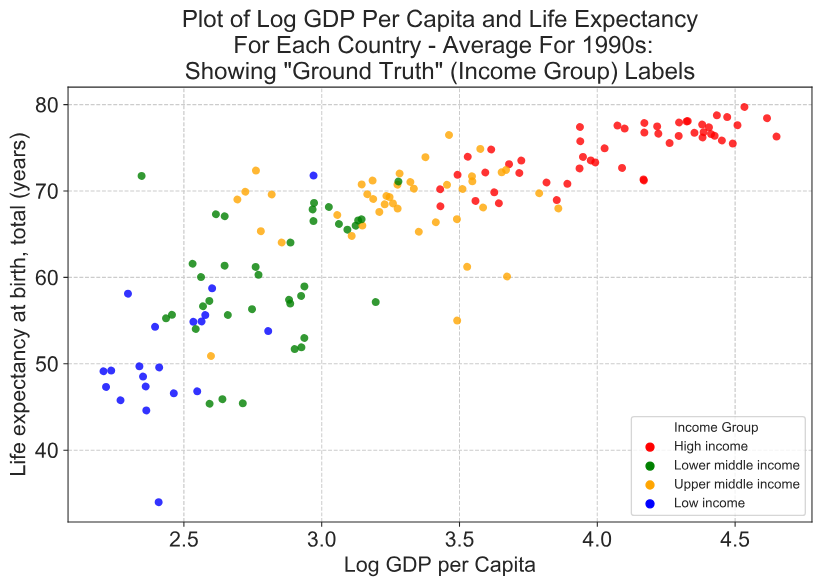
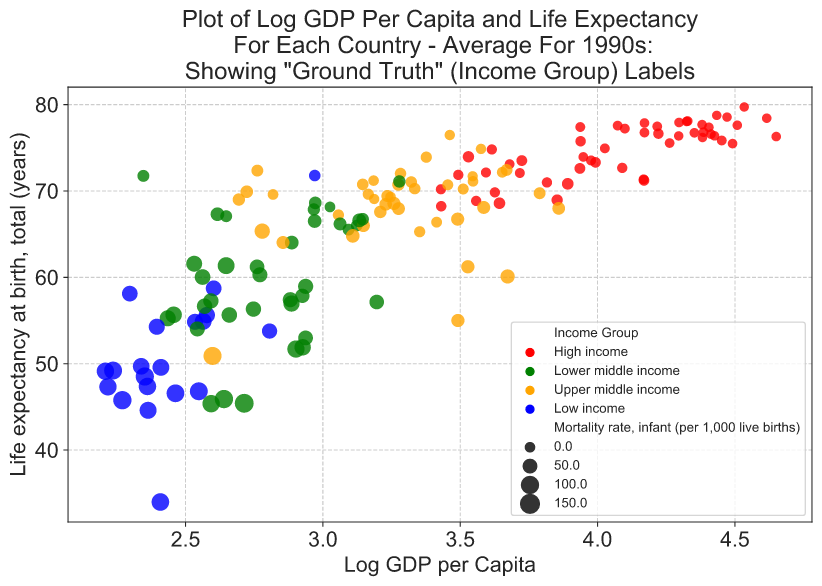
Tidying up supervised and unsupervised methods.

diff --git a/assignment1/9_supervised_methods.py b/assignment1/9_supervised_methods.py
@@ -14,6 +14,7 @@
 # 2. Y
 #
 #%%
+import os
 import numpy as np
 import pandas as pd
 import matplotlib.pyplot as plt
@@ -22,10 +23,11 @@ from sklearn import metrics
 from sklearn.linear_model import LinearRegression
 from sklearn.naive_bayes import GaussianNB
 from sklearn.preprocessing import LabelEncoder
+from sklearn.preprocessing import StandardScaler
 import seaborn as sns
 
 #%% [markdown]
-### Stage 6.1 - Read in the Data and Prepare it for Analysis
+### Stage 9.1 - Read in the Data and Prepare it for Analysis
 # Read in the file that was generated from the warngling and cleaning scripts.
 
 #%%
@@ -36,10 +38,26 @@ interpolated_data_set = pd.read_pickle(data_path + "interpolated_data_set.pkl")
 # Adding "Log GDP" in order to generate more meaningful analysis.
 interpolated_data_set["Log GDP per Capita"] = np.log10(interpolated_data_set["GDP per capita (current US$)"])
 
-### Stage 6.2 - Inear Regression
-# Linear regression models are popular because they can be fit very quickly and are very interpretable.
-# Here I will apply linear regression to build a predictive model for Life Expectancy based on the 4 variables that strong correlatons with it.
-#
+#%% [markdown]
+### Stage 9.2 - Grab Data For 1990 
+# I will train the model using data for 1990 only.  So grab that year data ussing the xs function.
+
+#%%
+# Helper function to extract cross section of data based on year - I've chosen here to grab data for a single year.
+def grab_year(data_frame, year):
+    single_year_data_frame = data_frame.xs(year, level="Year", drop_level=False)
+    return single_year_data_frame
+
+
+single_year_data_frame_1990 = grab_year(interpolated_data_set, 1990)
+single_year_data_frame_1990
+
+#%% [markdown]
+### Stage 6.2 - Create Training and Test Data Sets 
+# Now create the training and test data set, using the standard convention:
+# - X - is the matrix containing the set of N feature / variable vectors;
+# - Y - is the set of N target variables associated with X.
+# - each will be split into a test and training data set, so 4 data sets in total.
 
 #%%
 # Set target column:
@@ -69,15 +87,6 @@ linear_regression_feature_columns = [ \
     'Log GDP per Capita']
 
 #%%
-# Helper function to extract cross section of data based on year - I've chosen here to grab data for a single year.
-def grab_year(data_frame, year):
-    single_year_data_frame = data_frame.xs(year, level="Year", drop_level=False)
-    return single_year_data_frame
-
-single_year_data_frame_1990 = grab_year(interpolated_data_set, 1990)
-single_year_data_frame_1990
-
-#%%
 # Helper function to extract target and feature dataframes
 def get_target_and_features(data_frame, target_column, feature_column_list):
     # Build a list of all columns
@@ -101,11 +110,22 @@ linear_regression_target_dataframe
 linear_regression_features_dataframe
 
 #%%
+scaler = StandardScaler()
+scaler.fit_transform(linear_regression_features_dataframe, linear_regression_target_dataframe)
+
+#%%
 # Split the data ready for training and testing the model
 X_train, X_test, Y_train, Y_test = sklearn.model_selection.train_test_split(linear_regression_features_dataframe, linear_regression_target_dataframe, test_size=0.20)
 
+#%% [markdown]
+### Stage 6.3 - Train Linear Regression Model
+# Linear regression models are popular because they can be fit very quickly and are very interpretable.
+# Here I will apply linear regression to build a predictive model for Life Expectancy based on the 4 variables that strong correlatons with it.
+#
+
+
 # Train the model
-linear_regression_model = LinearRegression()
+linear_regression_model = LinearRegression(normalize=True)
 linear_regression_model.fit(X_train, Y_train)
 
 #%%
@@ -114,10 +134,22 @@ print("Intercept: ", linear_regression_model.intercept_)
 #%%
 pd.DataFrame(list(zip(linear_regression_features_dataframe.columns, linear_regression_model.coef_)), columns = ['Features', 'Coefficients'])
 
-#%%
+#%% [markdown]
+### Stage 6.4 - Test The Model
 # Now test the model and determine how well it performs:
+# 
+
+#%%
 linear_regression_prediction = linear_regression_model.predict(X_test)
 print(metrics.mean_squared_error(Y_test, linear_regression_prediction))
+
+#%%
+linear_regression_model.score(X_test, Y_test)
+
+#%% [markdown]
+### Stage 6.5 - Apply The Model to Future Years
+# Loop through future years, applying the model and comparing predicted Life Expectancy with actual, computing Mean Squared Error:
+# 
 
 #%%
 # Now apply the trained model to future years to see how it performs:
@@ -141,6 +173,11 @@ results_dataframe
 
 #%%
 detailed_results
+
+#%% [markdown]
+### Stage 6.6 - Visualise the Results
+# Visualise the results:
+# 
 
 #%%
 sns.set_style("ticks", {'axes.grid': True, 'grid.color': '.8', 'grid.linestyle': '-', })
@@ -177,8 +214,8 @@ sns.lineplot(x="Year", y="Value",\
 plt.setp(ax.get_legend().get_texts(), fontsize='16') # for legend text
 plt.setp(ax.get_legend().get_title(), fontsize='18') # for legend title
 
-
-### Stage 6.3 - Naive Bayes
+#%% [markdown]
+### Stage 6.7 - Naive Bayes
 # 
 #%%
 # Set target column:
@@ -209,20 +246,20 @@ nb_target_dataframe_encoded
 nb_features_dataframe
 
 #%%
-X_train, X_test, Y_train, Y_test = sklearn.model_selection.train_test_split(nb_features_dataframe, nb_target_dataframe_encoded, test_size = 0.25)
+X_nb_train, X_nb_test, Y_nb_train, Y_nb_test = sklearn.model_selection.train_test_split(nb_features_dataframe, nb_target_dataframe_encoded, test_size = 0.25)
 
 #%%
 naive_bayes_model = GaussianNB()
 
 #%%
-naive_bayes_model.fit(X_train, Y_train)
+naive_bayes_model.fit(X_nb_train, Y_nb_train)
 
 #%%
-naive_bayes_prediction = naive_bayes_model.predict(X_test)
-print("Naive Bayes model accuracy score: ", metrics.accuracy_score(Y_test,naive_bayes_prediction))
+naive_bayes_prediction = naive_bayes_model.predict(X_nb_test)
+print("Naive Bayes model accuracy score: ", metrics.accuracy_score(Y_nb_test,naive_bayes_prediction))
 
 #%%
-print(metrics.classification_report(Y_test, naive_bayes_prediction))
+print(metrics.classification_report(Y_nb_test, naive_bayes_prediction))
 
 #%%
-print(metrics.confusion_matrix(Y_test,naive_bayes_prediction))
+print(metrics.confusion_matrix(Y_nb_test,naive_bayes_prediction))

diff --git a/assignment1/8_unsupervised_methods.py b/assignment1/8_unsupervised_methods.py
@@ -16,12 +16,12 @@
 # 3. Principle Component Analysis - as a useful pre-emtpive stage before applying supervised methods - with a view to reducing the number of variables required.
 #
 #%%
+import os
 import numpy as np
 import pandas as pd
 import seaborn as sns
 import matplotlib.pyplot as plt
 import scipy
-import assignment1.data_wrangling_functions as dwf
 from sklearn import datasets
 from sklearn import metrics
 from sklearn import cluster
@@ -59,14 +59,15 @@ analysis_of_decade = analysis_of_decade.groupby(level=["Region", "Income Group",
 # Reduce number of variables and dropping any NA values as they will cause the model to break!
 analysis_of_decade_nulls_removed = analysis_of_decade.\
     loc[:, ["Income Group",\
-         "Log GDP per Capita",\
-              "Life expectancy at birth, total (years)",\
-                   "Renewable energy consumption (% of total final energy consumption)",\
-                       'Inflation, consumer prices (annual %)',\
-                            'Merchandise exports (current US$)',\
-                                "Immunization, DPT (% of children ages 12-23 months)",\
-                                    "Urban population growth (annual %)",\
-                                        "Mortality rate, infant (per 1,000 live births)"]]\
+        "Country", \
+            "Log GDP per Capita",\
+                "Life expectancy at birth, total (years)",\
+                    "Renewable energy consumption (% of total final energy consumption)",\
+                        'Inflation, consumer prices (annual %)',\
+                                'Merchandise exports (current US$)',\
+                                    "Immunization, DPT (% of children ages 12-23 months)",\
+                                        "Urban population growth (annual %)",\
+                                            "Mortality rate, infant (per 1,000 live births)"]]\
         .dropna()
 
 analysis_of_decade_nulls_removed
@@ -76,8 +77,13 @@ ground_truth = analysis_of_decade_nulls_removed.iloc[:,0]
 ground_truth.value_counts()
 
 #%%
-dataset_variables = analysis_of_decade_nulls_removed.iloc[:, 1:]
+countries = analysis_of_decade_nulls_removed.iloc[:,1]
+
+
+#%%
+dataset_variables = analysis_of_decade_nulls_removed.iloc[:, 2:]
 dataset_variables.describe()
+
 
 #%% [markdown]
 ### Stage 8.3 - Establish The Variables (X)
@@ -287,7 +293,7 @@ diff_palette = {4: "darkred", 3: "red", 2: "orangered", 1: "orange", 0: "black",
 
 #%%
 # Helper function to enable data to be plotted consistently
-def plot_clusters(dataframe, title, x_column, y_column, hue_column, hue_palette):
+def plot_clusters(dataframe, title, x_column, y_column, size_column, hue_column, hue_palette):
     sns.set_style("ticks", {'axes.grid': True, 'grid.color': '.8', 'grid.linestyle': '--', 
         'axes.titlesize' : 18, 'lines.linewidth' : 1, 'axes.labelsize' : 18, 'xtick.labelsize' : 16,\
         'ytick.labelsize' : 16})
@@ -295,7 +301,8 @@ def plot_clusters(dataframe, title, x_column, y_column, hue_column, hue_palette)
     chart = sns.scatterplot(x = x_column, y = y_column,\
         hue = hue_column,\
         palette = hue_palette,\
-        sizes = 100,\
+        size = size_column, \
+        sizes = (50,200),\
         alpha = 0.8,\
         linewidth = 0,\
         data=dataframe, ax = ax)
@@ -303,16 +310,16 @@ def plot_clusters(dataframe, title, x_column, y_column, hue_column, hue_palette)
 
 #%%
 plot_clusters(analysis_of_decade_nulls_removed, "Plot of Log GDP Per Capita and Life Expectancy\n For Each Country - Average For 1990s:\nShowing \"Ground Truth\" (Income Group) Labels", "Log GDP per Capita",\
-    "Life expectancy at birth, total (years)", "Income Group", income_group_palette)
+    "Life expectancy at birth, total (years)", "Mortality rate, infant (per 1,000 live births)", "Income Group", income_group_palette)
 
 #%%
 plot_clusters(analysis_of_decade_nulls_removed, "Plot of Log GDP Per Capita and Life Expectancy\n For Each Country - Average For 1990s:\nShowing Labels Assigned by Agglomerative Clustering",\
-     "Log GDP per Capita", "Life expectancy at birth, total (years)",\
+     "Log GDP per Capita", "Life expectancy at birth, total (years)", "Mortality rate, infant (per 1,000 live births)",\
           "agglomeative_cluster", cluster_palette)
 
 #%%
-plot_clusters(analysis_of_decade_nulls_removed, "Plot Showing Differences Between \"Known Truth\"\nand Labels Assigned By Clustering Algorithm",\
-    "Log GDP per Capita", "Life expectancy at birth, total (years)",\
+plot_clusters(analysis_of_decade_nulls_removed, "Plot Showing Differences Between \"Ground Truth\"\nand Labels Assigned By Clustering Algorithm",\
+    "Log GDP per Capita", "Life expectancy at birth, total (years)", "Mortality rate, infant (per 1,000 live births)",\
         "label_diff", diff_palette)
 
 #%% [markdown]
@@ -324,18 +331,25 @@ plot_clusters(analysis_of_decade_nulls_removed, "Plot Showing Differences Betwee
 linkage_model = linkage(X, 'ward')
 sns.set_style("ticks", {'axes.grid': True, 'grid.color': '.8', 'grid.linestyle': '-'})
 f, ax = plt.subplots(figsize=(25, 15))
-plt.title('Hierarchical Clustering Dendrogram - Applied To A Range of World Development Indicators in the 1990s')
+plt.title('Hierarchical Clustering Dendrogram - Based on Country Level World Development Indicators (WDIs) Averaged Across the 1990s')
 plt.xlabel('Countries')
 plt.ylabel('Distance')
-dendrogram(linkage_model, leaf_rotation=90., leaf_font_size=9.,)
+dendrogram(linkage_model, leaf_rotation=270, leaf_font_size=9.,)
 locs, labels = plt.xticks()
+step = 10
+end = 5 + ((len(countries) + 1) * step)
+plt.xticks(np.arange(5, end, step), countries.to_numpy())
+
 plt.show()
 
 #%%
-labels[0]
+labels[1]
 
 #%%
 linkage_model
+
+#%%
+countries.to_numpy()
 
 #%%
 X
